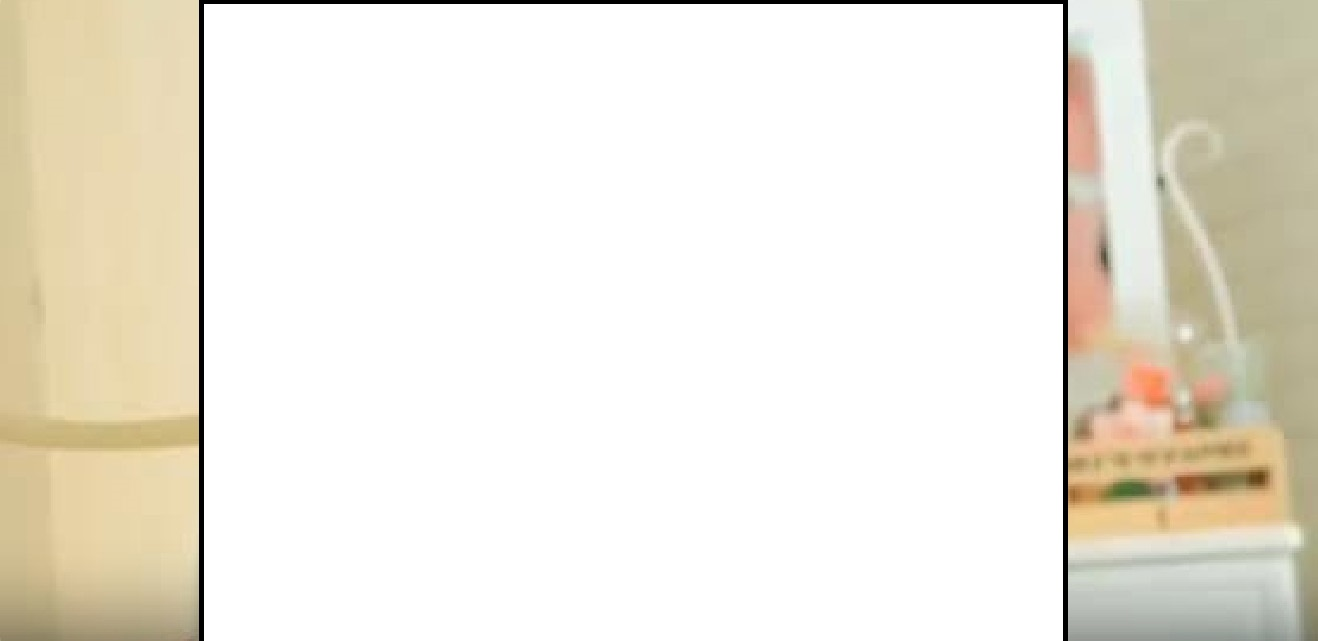
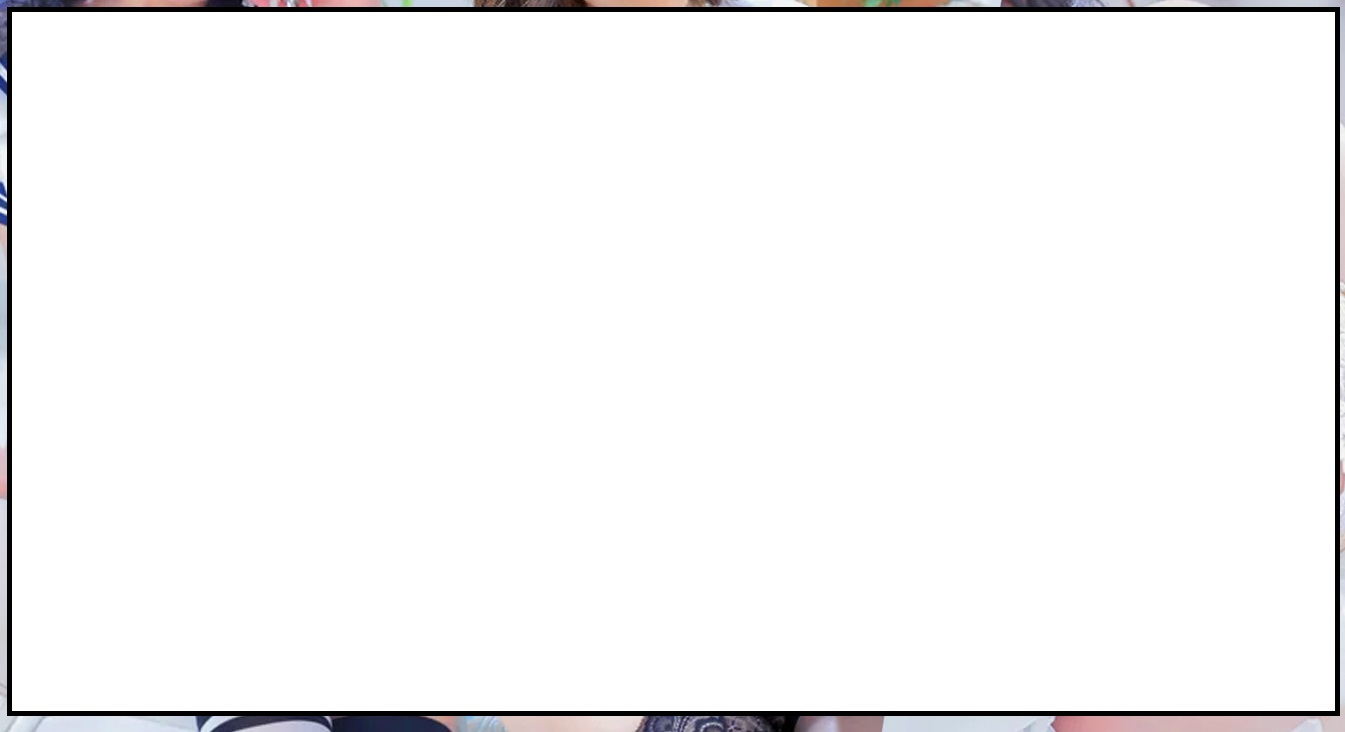
93,94

diff --git a/resources/scss/group/_pickup.scss b/resources/scss/group/_pickup.scss
@@ -172,7 +172,7 @@ $shops: (
     display: flex;
     flex-wrap: wrap;
     @media #{media-query(sm)} {
-      justify-content: space-between;
+      justify-content: center;
       row-gap: 50px;
       width: calc(100% - 56px);
       margin: 30px auto 0;
@@ -190,214 +190,184 @@ $shops: (
       margin: 50px auto 0;
     }
 
-    &:not(.--expanded) {
-      @media #{media-query(sm)} {
-        .pickup-item:nth-child(n+8) {
-          display: none;
-        }
-      }
-      @media #{media-query(md)} {
-        .pickup-item:nth-child(n+9) {
-          display: none;
-        }
-      }
-      @media #{media-query(lg)} {
-        .pickup-item:nth-child(n+10) {
-          display: none;
-        }
-      }
-    }
-
-    @each $shop in $shops {
-      &[data-shop="#{$shop}"] {
-        .pickup-item:not(.--#{$shop}) {
-          display: none;
-        }
-      }
-    }
-  }
-
-  .pickup-item {
-    display: block;
-    transition: .2s;
-    @media #{media-query(sm)} {
-      &:first-child {
-        width: 100%;
-      }
-      &:nth-child(n+2) {
-        width: calc(50% - 20px);
-      }
-    }
-    @media #{media-query(md)} {
-      width: 340px;
-    }
-    @media #{media-query(lg)} {
-      width: 384px;
-    }
-
-    &,
-    &:link,
-    &:visited,
-    &:active,
-    &:focus {
-      color: #000;
-    }
-
-    &:hover {
-      opacity: .8;
-    }
-
-    .pickup-photo {
-      width: 100%;
-      overflow: hidden;
-      border-radius: 30px;
-      @media #{media-query(sm)} {
-        aspect-ratio: 384 / 425;
-      }
-      @media #{media-query(md)} {
-        height: 375px;
-      }
-      @media #{media-query(lg)} {
-        height: 425px;
-      }
-
-      img {
-        width: 100%;
-        height: 100%;
-        object-fit: cover;
-        object-position: center center;
-        transition: .25s;
-      }
-    }
-    &:hover .pickup-photo {
-      img {
-        transform: scale(1.04);
-      }
-    }
-
-    .pickup-shop {
-      display: inline-flex;
-      align-items: center;
-      justify-content: center;
-      color: #FFF;
-      font-weight: 700;
-      @media #{media-query(sm)} {
-        width: 100%;
-        height: 30px;
-        margin: 12px 0 0;
-        border-radius: 15px;
-        font-size: 14px;
-      }
-      @media #{media-query(md)} {
-        height: 36px;
-        margin: 18px 10px 0;
-        padding: 0 18px;
-        border-radius: 18px;
-        font-size: 16px;
-      }
-      @media #{media-query(lg)} {
-        height: 42px;
-        margin: 22px 10px 0;
-        padding: 0 24px;
-        border-radius: 21px;
-        font-size: 19px;
-      }
-    }
-    &.--pussycat .pickup-shop {
-      background-color: $shop-color-pussycat;
-    }
-    &.--shizuku .pickup-shop {
-      background-color: $shop-color-shizuku;
-    }
-    &.--miyabi .pickup-shop {
-      background-color: $shop-color-miyabi;
-    }
-    &.--en .pickup-shop {
-      background-color: $shop-color-en;
-    }
-    &.--shiroganeze .pickup-shop {
-      background-color: $shop-color-shiroganeze;
-    }
-    &.--lovestory .pickup-shop {
-      background-color: $shop-color-lovestory;
-    }
-
-    &.--pussycat .pickup-name {
-      color: $shop-color-pussycat;
-    }
-    &.--shizuku .pickup-name {
-      color: $shop-color-shizuku;
-    }
-    &.--miyabi .pickup-name {
-      color: $shop-color-miyabi;
-    }
-    &.--en .pickup-name {
-      color: $shop-color-en;
-    }
-    &.--shiroganeze .pickup-name {
-      color: $shop-color-shiroganeze;
-    }
-    &.--lovestory .pickup-name {
-      color: $shop-color-lovestory;
-    }
-    .pickup-name {
+    .pickup-item {
       display: block;
-      font-weight: 700;
-      letter-spacing: .1em;
-      text-align: center;
+      transition: .2s;
       @media #{media-query(sm)} {
-        margin: 26px 0 0;
-        font-size: 26px;
+        width: 100%;
+        max-width: 384px;
       }
       @media #{media-query(md)} {
-        margin: 30px 0 0;
-        font-size: 30px;
+        width: 340px;
       }
       @media #{media-query(lg)} {
-        margin: 35px 0 0;
-        font-size: 35px;
+        width: 384px;
       }
 
-      small {
-        font-size: 80%;
-        font-weight: 500;
+      &,
+      &:link,
+      &:visited,
+      &:active,
+      &:focus {
+        color: #000;
       }
-    }
-    .pickup-size {
-      display: block;
-      text-align: center;
-      @media #{media-query(sm)} {
-        font-size: 16px;
-        margin: 24px 0 0;
+
+      &:hover {
+        opacity: .8;
       }
-      @media #{media-query(md)} {
-        font-size: 16px;
-        margin: 24px 0 0;
+
+      .pickup-photo {
+        width: 100%;
+        overflow: hidden;
+        border-radius: 30px;
+        @media #{media-query(sm)} {
+          aspect-ratio: 384 / 425;
+        }
+        @media #{media-query(md)} {
+          height: 375px;
+        }
+        @media #{media-query(lg)} {
+          height: 425px;
+        }
+
+        img {
+          width: 100%;
+          height: 100%;
+          object-fit: cover;
+          object-position: center center;
+          transition: .25s;
+        }
       }
-      @media #{media-query(lg)} {
-        font-size: 18px;
-        margin: 28px 0 0;
+      &:hover .pickup-photo {
+        img {
+          transform: scale(1.04);
+        }
       }
-    }
-    .pickup-intro {
-      width: 100%;
-      @include text.multiline-ellipsis(2);
-      @media #{media-query(sm)} {
-        margin: 8px 0 0;
-        font-size: 15px;
-        line-height: 26px;
+
+      .pickup-shop {
+        display: inline-flex;
+        align-items: center;
+        justify-content: center;
+        color: #FFF;
+        font-weight: 700;
+        @media #{media-query(sm)} {
+          width: 100%;
+          height: 30px;
+          margin: 12px 0 0;
+          border-radius: 15px;
+          font-size: 14px;
+        }
+        @media #{media-query(md)} {
+          height: 36px;
+          margin: 18px 10px 0;
+          padding: 0 18px;
+          border-radius: 18px;
+          font-size: 16px;
+        }
+        @media #{media-query(lg)} {
+          height: 42px;
+          margin: 22px 10px 0;
+          padding: 0 24px;
+          border-radius: 21px;
+          font-size: 19px;
+        }
       }
-      @media #{media-query(md)} {
-        margin: 14px 0 0;
-        padding: 0 10px;
-        font-size: 18px;
-        line-height: 30px;
+      &.--pussycat .pickup-shop {
+        background-color: $shop-color-pussycat;
       }
-      @media #{media-query(lg)} {
-        margin: 15px 0 0;
-        padding: 0 10px;
-        font-size: 20px;
-        line-height: 34px;
+      &.--shizuku .pickup-shop {
+        background-color: $shop-color-shizuku;
+      }
+      &.--miyabi .pickup-shop {
+        background-color: $shop-color-miyabi;
+      }
+      &.--en .pickup-shop {
+        background-color: $shop-color-en;
+      }
+      &.--shiroganeze .pickup-shop {
+        background-color: $shop-color-shiroganeze;
+      }
+      &.--lovestory .pickup-shop {
+        background-color: $shop-color-lovestory;
+      }
+
+      &.--pussycat .pickup-name {
+        color: $shop-color-pussycat;
+      }
+      &.--shizuku .pickup-name {
+        color: $shop-color-shizuku;
+      }
+      &.--miyabi .pickup-name {
+        color: $shop-color-miyabi;
+      }
+      &.--en .pickup-name {
+        color: $shop-color-en;
+      }
+      &.--shiroganeze .pickup-name {
+        color: $shop-color-shiroganeze;
+      }
+      &.--lovestory .pickup-name {
+        color: $shop-color-lovestory;
+      }
+      .pickup-name {
+        display: block;
+        font-weight: 700;
+        letter-spacing: .1em;
+        text-align: center;
+        @media #{media-query(sm)} {
+          margin: 26px 0 0;
+          font-size: 26px;
+        }
+        @media #{media-query(md)} {
+          margin: 30px 0 0;
+          font-size: 30px;
+        }
+        @media #{media-query(lg)} {
+          margin: 35px 0 0;
+          font-size: 35px;
+        }
+
+        small {
+          font-size: 80%;
+          font-weight: 500;
+        }
+      }
+      .pickup-size {
+        display: block;
+        text-align: center;
+        @media #{media-query(sm)} {
+          font-size: 16px;
+          margin: 24px 0 0;
+        }
+        @media #{media-query(md)} {
+          font-size: 16px;
+          margin: 24px 0 0;
+        }
+        @media #{media-query(lg)} {
+          font-size: 18px;
+          margin: 28px 0 0;
+        }
+      }
+      .pickup-intro {
+        width: 100%;
+        @include text.multiline-ellipsis(2);
+        @media #{media-query(sm)} {
+          margin: 8px 0 0;
+          font-size: 15px;
+          line-height: 26px;
+        }
+        @media #{media-query(md)} {
+          margin: 14px 0 0;
+          padding: 0 10px;
+          font-size: 18px;
+          line-height: 30px;
+        }
+        @media #{media-query(lg)} {
+          margin: 15px 0 0;
+          padding: 0 10px;
+          font-size: 20px;
+          line-height: 34px;
+        }
       }
     }
   }
